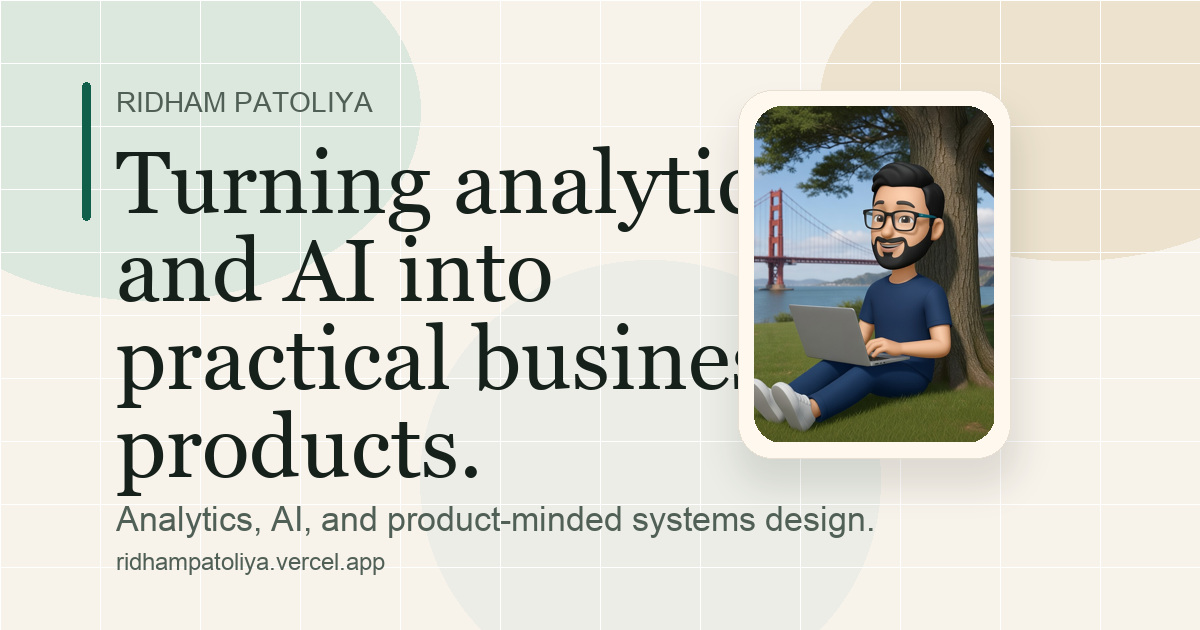
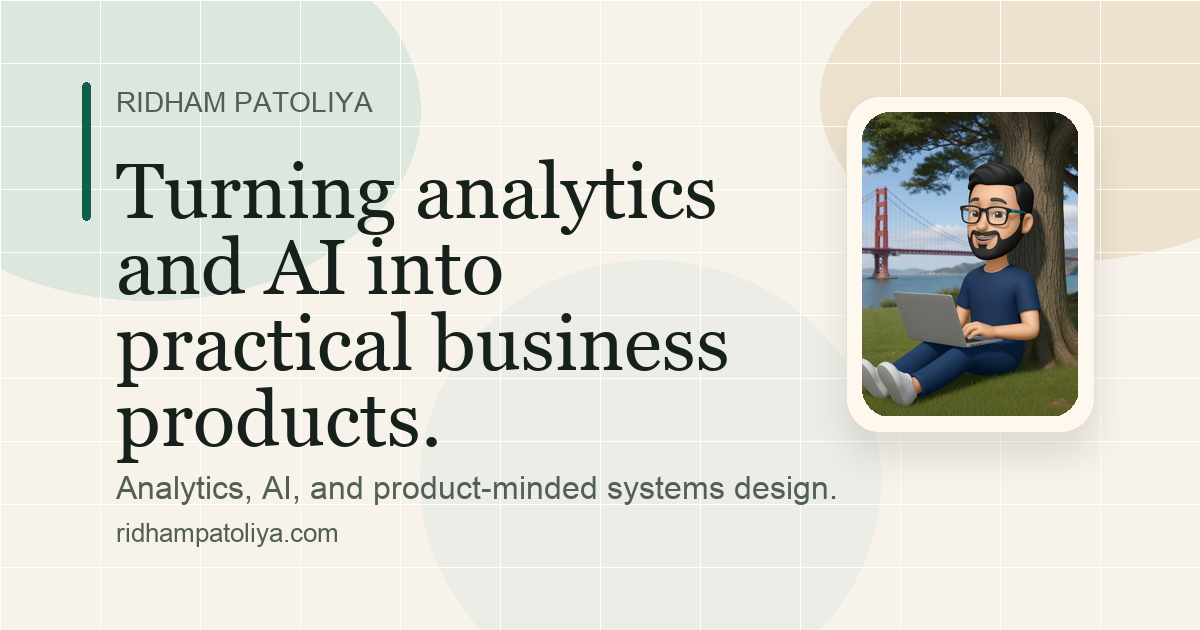
Update social preview for custom domain

Changed region(s): [[0.0925, 0.1206, 0.925, 0.9048]]

diff --git a/index.html b/index.html
@@ -9,12 +9,13 @@
       content="Ridham Patoliya builds analytics and AI systems that turn complex operational and financial workflows into practical business products."
     />
     <meta property="og:type" content="website" />
+    <meta property="og:url" content="https://ridhampatoliya.com/" />
     <meta property="og:title" content="Ridham Patoliya" />
     <meta
       property="og:description"
       content="Turning analytics and AI into practical business products."
     />
-    <meta property="og:image" content="./social-preview.png" />
+    <meta property="og:image" content="https://ridhampatoliya.com/social-preview.png" />
     <meta property="og:image:alt" content="Ridham Patoliya social preview card" />
     <meta name="twitter:card" content="summary_large_image" />
     <meta name="twitter:title" content="Ridham Patoliya" />
@@ -22,7 +23,7 @@
       name="twitter:description"
       content="Turning analytics and AI into practical business products."
     />
-    <meta name="twitter:image" content="./social-preview.png" />
+    <meta name="twitter:image" content="https://ridhampatoliya.com/social-preview.png" />
     <link rel="preconnect" href="https://fonts.googleapis.com" />
     <link rel="preconnect" href="https://fonts.gstatic.com" crossorigin />
     <link

diff --git a/books/index.html b/books/index.html
@@ -9,19 +9,20 @@
       content="A curated list of books that shaped how Ridham Patoliya thinks about systems, behavior, work, and decision-making."
     />
     <meta property="og:type" content="website" />
+    <meta property="og:url" content="https://ridhampatoliya.com/books/" />
     <meta property="og:title" content="Books | Ridham Patoliya" />
     <meta
       property="og:description"
       content="Books that shaped how I think about systems, behavior, work, and decision-making."
     />
-    <meta property="og:image" content="/social-preview.png" />
+    <meta property="og:image" content="https://ridhampatoliya.com/social-preview.png" />
     <meta name="twitter:card" content="summary_large_image" />
     <meta name="twitter:title" content="Books | Ridham Patoliya" />
     <meta
       name="twitter:description"
       content="Books that shaped how I think about systems, behavior, work, and decision-making."
     />
-    <meta name="twitter:image" content="/social-preview.png" />
+    <meta name="twitter:image" content="https://ridhampatoliya.com/social-preview.png" />
     <link rel="preconnect" href="https://fonts.googleapis.com" />
     <link rel="preconnect" href="https://fonts.gstatic.com" crossorigin />
     <link
